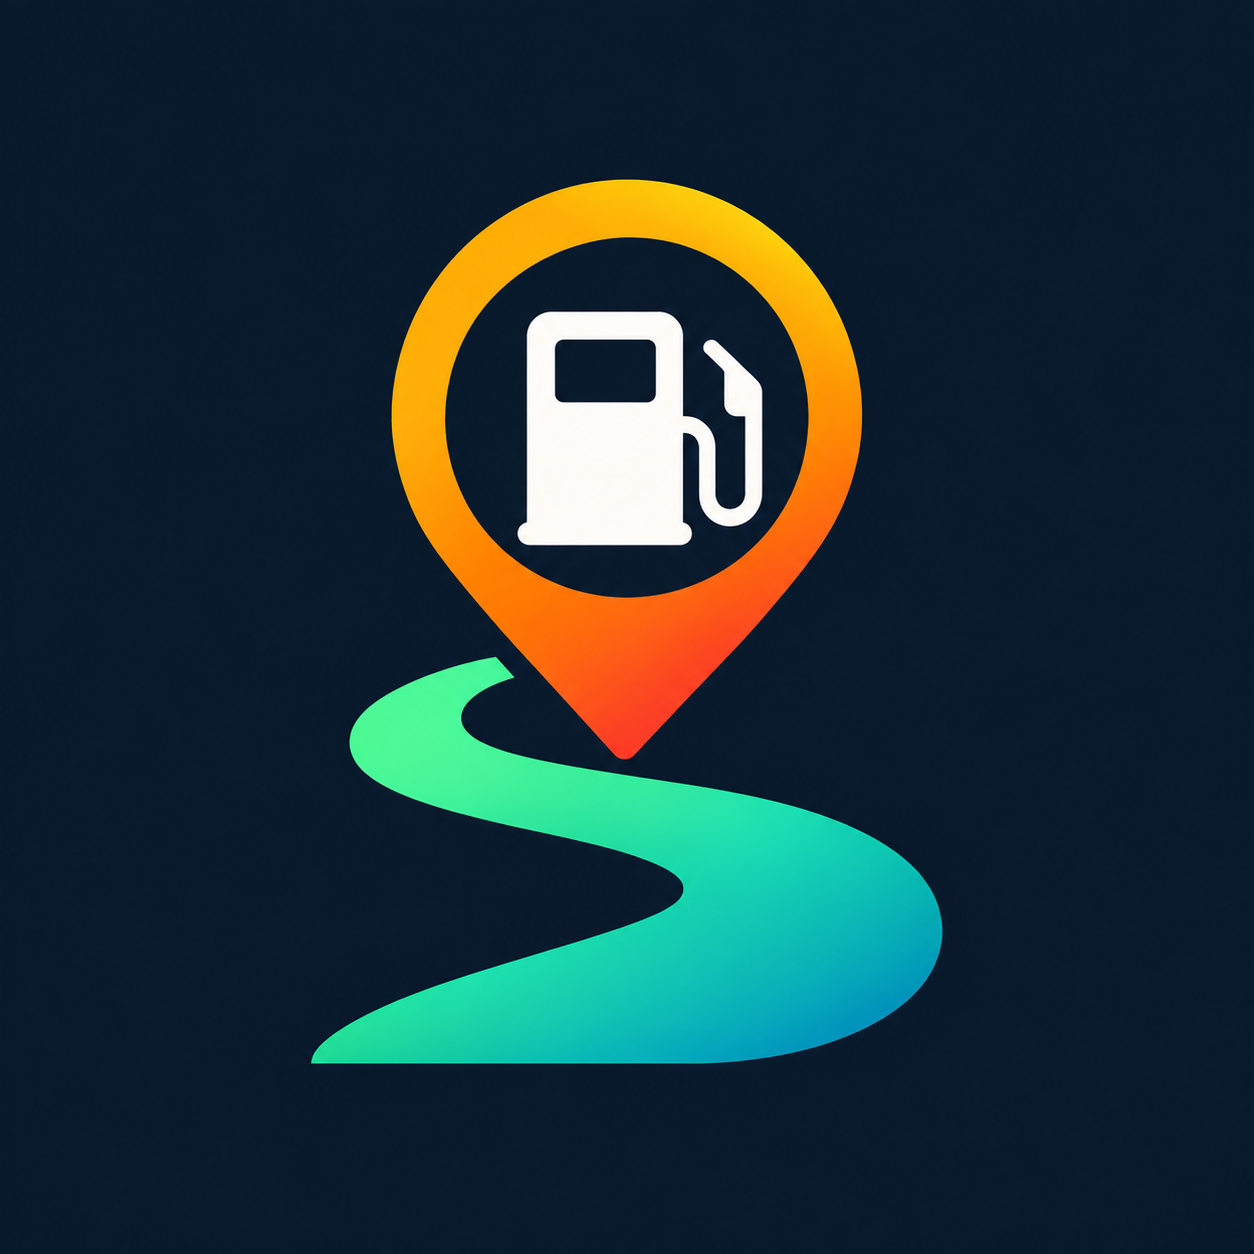
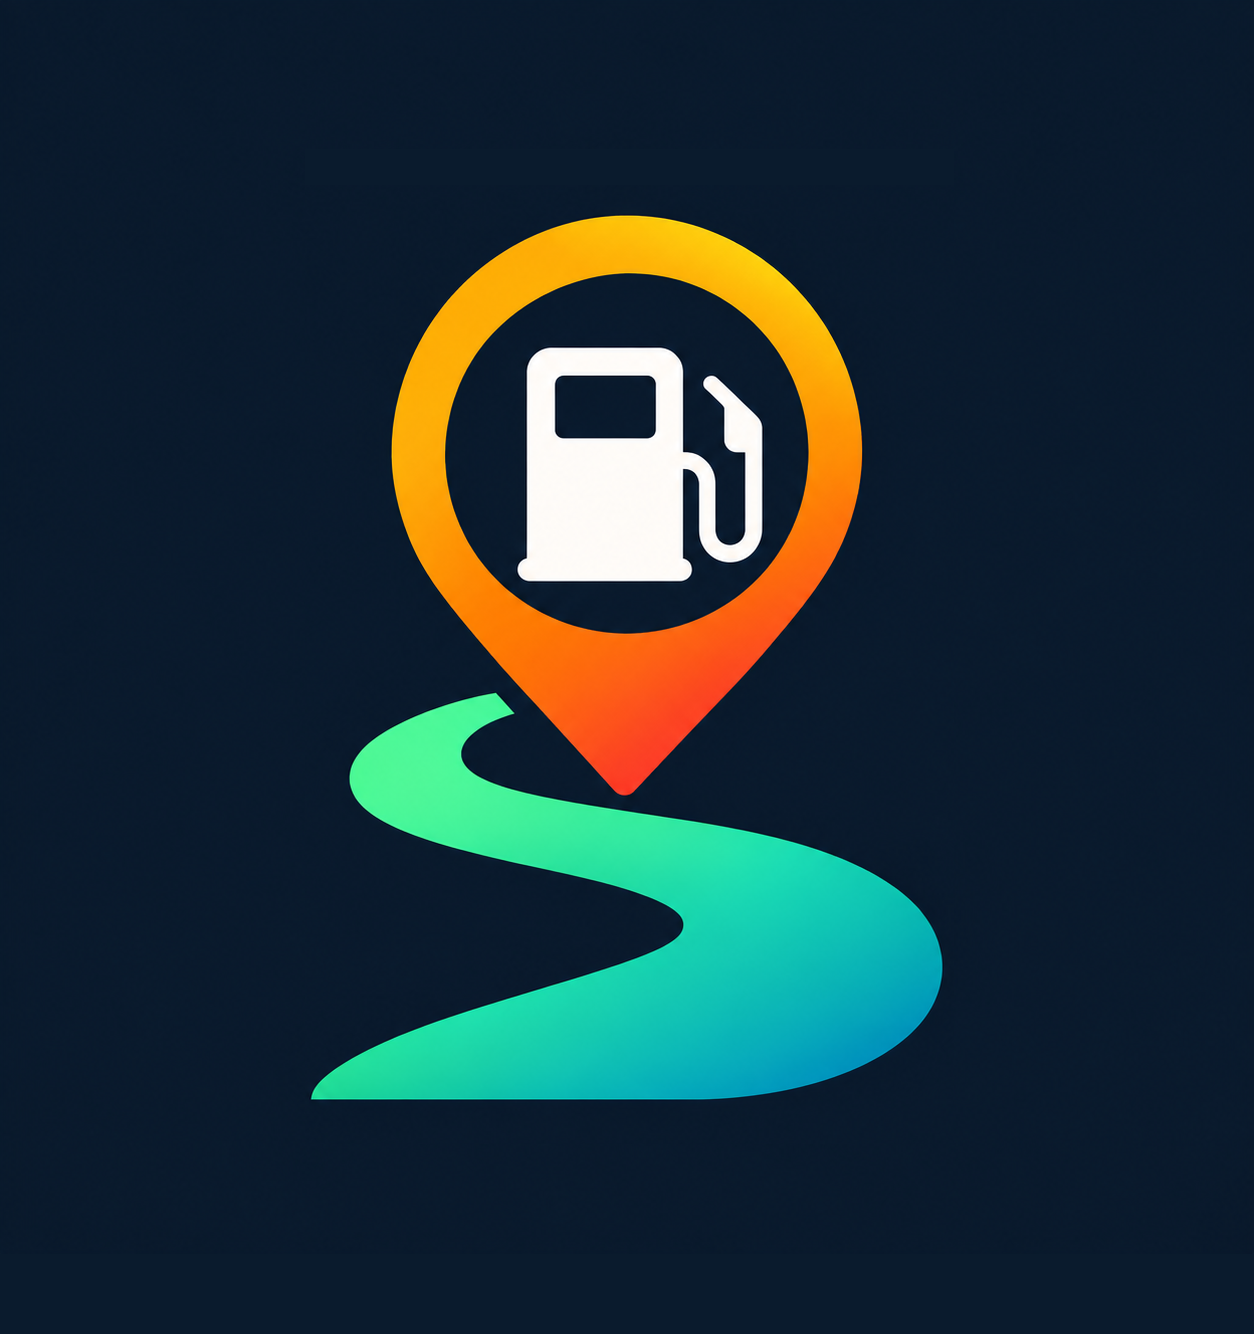
Mapa: marcadores antes con menos zoom y más estaciones + icono nuevo propagado
Mapa (StationMap.tsx): supercluster radio 60→45, tope de marcadores 4.000→8.000,
etiquetas de precio desde zoom 8 (antes 9) y tope de puntos sueltos 500→700.
Iconos: nuevo masteer de assets/icon.png (pin de gasolinera) propagado a
public/icon.png y a los 15 mipmap de Android (legacy/redondo/adaptativo)
via scripts/gen-icons.ps1, que queda en el repo para regenerarlos al cambiar
el logo. AGENTS.md actualizado.

diff --git a/src/components/StationMap.tsx b/src/components/StationMap.tsx
@@ -6,7 +6,7 @@ import Supercluster from 'supercluster';
 import type { FuelKey, FuelStation } from '../types/fuel';
 import { formatPriceShort, priceTone } from '../utils/format';
 
-const MAX_MARKERS = 4000;
+const MAX_MARKERS = 8000;
 
 interface MapPoint {
   type: 'Feature';
@@ -163,7 +163,7 @@ function ClusterLayer({
   }, [map]);
 
   const index = useMemo(() => {
-    const sc = new Supercluster({ radius: 60, maxZoom: 14, minPoints: 2 });
+    const sc = new Supercluster({ radius: 45, maxZoom: 14, minPoints: 2 });
     sc.load(points as never);
     return sc;
   }, [points]);
@@ -176,13 +176,13 @@ function ClusterLayer({
     }
   }, [index, bbox, zoom]);
 
-  // Etiquetas de precio: a partir de zoom 9 y con tope de puntos sueltos
+  // Etiquetas de precio: a partir de zoom 8 y con tope de puntos sueltos
   // para no petar el DOM cuando se ven cientos a la vez.
   let singles = 0;
   for (const c of clusters) {
     if (!(c.properties as { cluster?: boolean }).cluster) singles++;
   }
-  const showPrices = zoom >= 9 && singles <= 500;
+  const showPrices = zoom >= 8 && singles <= 700;
 
   // Precios del combustible activo por municipio, ordenados: la más barata
   // de cada ciudad va en verde y el 10 % más caro en rojo.

diff --git a/AGENTS.md b/AGENTS.md
@@ -25,7 +25,7 @@ Frontend React 19 + TypeScript + Vite + proxy Express hacia MITECO (precios de c
 
 - Precios/coords con coma decimal: `"1,849"` → número, `""`/`"-"` = no disponible (`parseMitecoPrice`); coords `"39,211417"` → float (`parseCoord` en `fuelStationsService.ts`).
 - Forma cruda: `{ Fecha, ListaEESSPrecio[], ... }`, clave `IDEESS`; fecha oficial en `Fecha` (`"27/09/2026 14:06:30"`).
-- Feed ~12 MB / ~11.500 estaciones: mantener lista progresiva (48/pág), tarjetas memoizadas, mapa con supercluster y tope (4.000 marcadores), filtrado con `useMemo`.
+- Feed ~12 MB / ~11.500 estaciones: mantener lista progresiva (48/pág), tarjetas memoizadas, mapa con supercluster (radio 45) y tope (8.000 marcadores), filtrado con `useMemo`.
 - Mapa: el punto individual lleva etiqueta permanente con el precio del combustible activo (`Tooltip`, clase `mk-price`, formato corto en `format.ts`).
 - El estado de filtros vive en la query string (`fuel`, `prov`, `sort`, `view`, `station`); al tocar `useStationFilters.ts` preservar URLs compartibles.
 - Preferencias persistentes: `useStationFilters.ts` guarda en `localStorage` (`fuel-espana-filters`, validado al leer, query con debounce). Prioridad al arrancar: URL con params > localStorage > defecto. Un enlace compartido nunca queda contaminado por lo guardado.
@@ -39,7 +39,7 @@ Frontend React 19 + TypeScript + Vite + proxy Express hacia MITECO (precios de c
   (el listado ordenado + semáforo la sustituye); "Ver en mapa" en la ficha
   centra la estación (`FocusPoint`); CCAA/provincia limpian el texto.
 - Semáforo compartido lista/mapa (`priceTone` en `format.ts`): verde el mínimo, rojo el 10 % más caro, naranja el resto; elegir localidad baja a `#filtros`.
-- Tótem con selector de carburante (cambia el filtro global); mapa reencuadra al entrar/cambiar filtros, etiquetas desde zoom 12 con tope de 500.
+- Tótem con selector de carburante (cambia el filtro global); mapa reencuadra al entrar/cambiar filtros, etiquetas de precio desde zoom 8 con tope de 700.
 - Ubicación: plugin nativo `@capacitor/geolocation` en APK, `navigator` en web (aviso si no hay HTTPS).
 
 ## Responsive
@@ -54,4 +54,4 @@ Frontend React 19 + TypeScript + Vite + proxy Express hacia MITECO (precios de c
 - Flujo: `npm run build` → `npx cap sync android` → abrir `android/` en Android Studio → Run. Emulador contra backend local: `http://10.0.2.2:3001`; dispositivo físico: `http://<IP-del-PC>:3001`.
 - Backend desplegado: **Northflank**, `https://site--gasolineras-spain--p6kx65x2kfh6.code.run` (`GET /api/health`; verificado por DNS → `*.northflank.com`). Render fue retirado (su `render.yaml` se eliminó).
 - Build para APK con datos reales: `$env:VITE_API_URL="https://site--gasolineras-spain--p6kx65x2kfh6.code.run"; npm run build` (PowerShell, solo esa compilación). Como `.env` ya trae esa URL, un `npm run build` a secas también la incluye; sin ella la APK abriría sin datos.
-- Iconos: máster en `assets/icon.png` (→ `public/icon.png` para web/pestaña). Android generado a mano por densidades (`mipmap-*/ic_launcher*.png` + foreground adaptativo) porque `sharp` no instala binario en Windows.
+- Iconos: máster en `assets/icon.png` (opaco marino). Tras cambiarlo, ejecutar `powershell -File scripts/gen-icons.ps1` (usa System.Drawing, sin `sharp`): regenera `public/icon.png` (1024², web/pestaña) y los 15 PNG de Android (`mipmap-*/`: legacy + redondo + adaptativo), detectando el contenido sobre el fondo marino y encajándolo en la zona segura.
